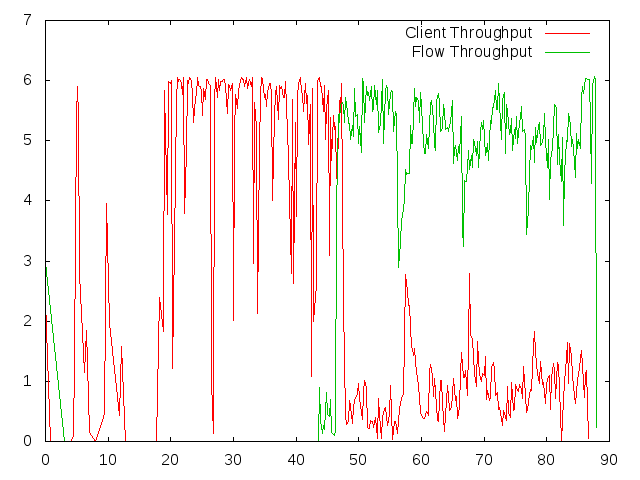
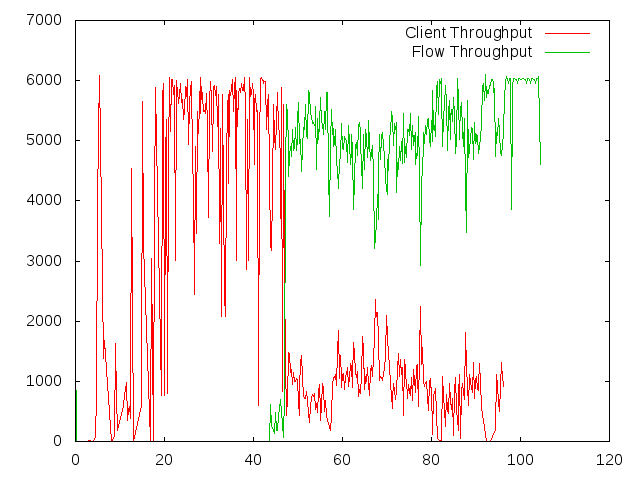
graphing

diff --git a/mahimahi/filters/convert_mahimahi_to_graph_input.py b/mahimahi/filters/convert_mahimahi_to_graph_input.py
@@ -13,7 +13,7 @@ for line in f:
         time = int(tokens[0])
         if time - previous_time > MIN_DELTA:
             num_kbits = num_bytes *8 / 1000.0
-            kbps = num_kbits / (delta)
+            kbps = num_kbits / (delta)*1000.0
             print previous_time/1000.0, kbps
             delta = time - previous_time
             num_bytes = float(tokens[2])
@@ -22,5 +22,5 @@ for line in f:
             num_bytes += float(tokens[2])
 
 num_kbits = num_bytes *8 / 1000.0
-kbps = num_kbits / (delta)
+kbps = num_kbits / (delta)*1000.0
 print time/1000.0, kbps

diff --git a/mahimahi/filters/convert_playback_trace_vimeo.py b/mahimahi/filters/convert_playback_trace_vimeo.py
@@ -3,6 +3,8 @@ import json
 import sys
 import dateutil.parser
 
+SECS_PER_SEGMENT=4.0
+
 f = open(sys.argv[1])
 js = json.load(f)
 firstdt = None
@@ -11,4 +13,4 @@ for j in js:
         dt = dateutil.parser.parse(j["time"])
         if not firstdt:
             firstdt = dt
-        print (dt-firstdt).total_seconds(), int(j["responseSize"])
+        print (dt-firstdt).total_seconds(), float(j["responseSize"])*8/1000/SECS_PER_SEGMENT # convert bytes to kbps
